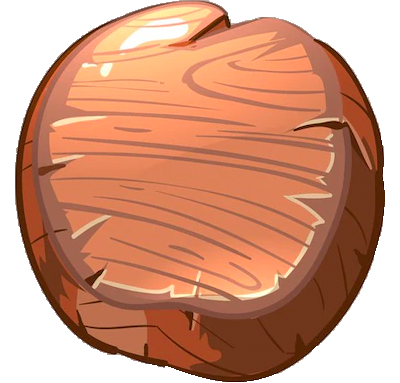
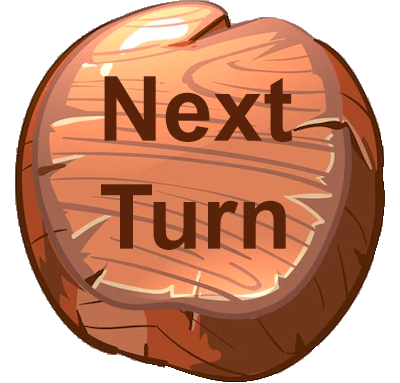
Fixing the turn label.

Changed region(s): [[0.24, 0.201, 0.75, 0.3734], [0.24, 0.4595, 0.72, 0.6606]]

diff --git a/Astral One Engine/Engine/Views/HUD/NextTurnButton.swift b/Astral One Engine/Engine/Views/HUD/NextTurnButton.swift
@@ -6,10 +6,13 @@ internal class NextTurnButton: SKNode {
     private let game: Game
     private let buttonNode: SKSpriteNode
     private let selectedIndicator: SKSpriteNode
-    public let size: CGSize
     private var cancellable = Set<AnyCancellable>()
+    private let uiScaleFactor = 0.18
+    private let minButtonSize = 40.0
+    private let maxButtonSize = 125.0
+    public let size: CGSize
     
-    internal init(game: Game, screenSize: CGSize) {
+    internal init(game: Game) {
         self.game = game
         
         let texture = SKTexture(imageNamed: "next-turn-button")
@@ -18,14 +21,19 @@ internal class NextTurnButton: SKNode {
                                   size: texture.size())
         buttonNode.position = CGPoint.zero
         
-        let tempSize = screenSize.width / 10
-        if tempSize < 40.0 {
-            size = CGSize(width: 40.0, height: 40.0)
+        var size = CGSize(width: game.canvasSize.height * uiScaleFactor,
+                          height: game.canvasSize.height * uiScaleFactor)
+        
+        if size.width < minButtonSize {
+            size = CGSize(width: minButtonSize, height: minButtonSize)
         }
-        else {
-            size = CGSize(width: tempSize, height: tempSize)
+        else if size.width > maxButtonSize {
+            size = CGSize(width: maxButtonSize, height: maxButtonSize)
         }
-        buttonNode.size = CGSize(width: size.width, height: size.height)
+
+        buttonNode.size = size
+        self.size = size
+        
         print("Next turn button size is \(buttonNode.size)")
         
         let selectedTexture = SKTexture(imageNamed: "next-turn-button")
@@ -38,10 +46,7 @@ internal class NextTurnButton: SKNode {
         
         super.init()
         
-        if let parent = self.parent {
-            let size = parent.frame.size
-            print("Camera size: \(size)")
-        }
+        name = "Next Turn"
         
         isUserInteractionEnabled = true
 //        position = mapManager.getCenterOf(position: unit.position)

diff --git a/Astral One Engine/Engine/Views/HUD/Camera.swift b/Astral One Engine/Engine/Views/HUD/Camera.swift
@@ -12,16 +12,19 @@ public class Camera: SKCameraNode {
     let calculatePathIcon = SKSpriteNode(imageNamed: "square-wooden-button")
     let positionLabel = SKLabelNode(fontNamed: "Arial Bold")
     
-    //private let horizontalPadding: CGFloat
-    //private let verticalPadding: CGFloat
+    private let padding: CGFloat
     
-    public init(game: Game, size: CGSize) {
+    public init(game: Game) {
         self.game = game
         
+        padding = game.canvasSize.width * 0.015
         
-        nextTurnButton = NextTurnButton(game: game, screenSize: size)
-        nextTurnButton.position = CGPoint(x: (size.width / 2) - nextTurnButton.size.width / 2,
-                                          y: -(size.height / 2) + nextTurnButton.size.height / 2)
+        nextTurnButton = NextTurnButton(game: game)
+        nextTurnButton.position = CGPoint.zero
+        print(game.canvasSize)
+        nextTurnButton.position = CGPoint(x: (game.canvasSize.width / 2) - nextTurnButton.size.width / 2 - padding,
+                                          y: -(game.canvasSize.height / 2) + nextTurnButton.size.height / 2 + padding)
+        print(nextTurnButton.position)
 //        nextTurnButton.size = CGSize(width: 100.0, height: 100.0)
         startPositionIcon.size = CGSize(width: 40.0, height: 35.0)
         calculatePathIcon.size = CGSize(width: 40.0, height: 35.0)
@@ -40,8 +43,6 @@ public class Camera: SKCameraNode {
         super.init()
         
         name = "camera"
-        
-        print("\(size)")
         
         game.$selectedMapPosition
             .dropFirst()

diff --git a/Astral One Engine/Engine/Views/HUD/TurnView.swift b/Astral One Engine/Engine/Views/HUD/TurnView.swift
@@ -1,0 +1,47 @@
+import Foundation
+import SpriteKit
+import Combine
+
+public class TurnView: SKNode {
+    public let yearNode: SKLabelNode
+    private let game: Game
+    
+    private var cancellable = Set<AnyCancellable>()
+
+    public init(parent: SKNode, game: Game) {
+        self.game = game
+        
+        yearNode = SKLabelNode(fontNamed: "Arial Bold")
+        yearNode.fontSize = 20
+        yearNode.horizontalAlignmentMode = .right
+        yearNode.zPosition = Layer.hud
+//        yearNode.position = CGPoint(x: game.canvasSize.width / 2 - 100.0,
+//                                    y: game.canvasSize.height / 2 - 50)
+        super.init()
+
+        addChild(yearNode)
+        parent.addChild(self)
+        
+        
+        self.position = CGPoint(x: game.canvasSize.width / 2 - 100.0,
+                                y: game.canvasSize.height / 2 - 50)
+        
+        print("Turn: \(self.position)")
+
+        
+        
+        self.game.$turnIndex
+            .sink(receiveValue: { turnIndex in
+                self.render(turn: game.turns[turnIndex])
+            })
+            .store(in: &cancellable)
+    }
+    
+    required init?(coder aDecoder: NSCoder) {
+        fatalError("init(coder:) has not been implemented")
+    }
+    
+    private func render(turn: Turn) {
+        yearNode.text = "Turn \(turn.ordinal): \(turn.displayText)"
+    }
+}

diff --git a/Astral One Engine/Engine/Core/EventBus.swift b/Astral One Engine/Engine/Core/EventBus.swift
@@ -26,16 +26,17 @@ public class EventBus {
             p.map.revealAllTiles()
         }
         
-//        let touchedNodes = scene.nodes(at: location)
-//
-//        for node in touchedNodes {
-//            if let name = node.name {
-//                print("Touched \(name)")
-//            }
-//            else {
-//                print("Touched unnamed node")
-//            }
-//        }
+        let touchedNodes = scene.nodes(at: location)
+
+        for node in touchedNodes {
+            if let name = node.name {
+                if name == "Next Turn" {
+                    game.nextTurn()
+                    return
+                }
+            }
+        }
+        
         let tile = mapManager.getTile(at: location)
 
         if let unit = mapManager.getUnit(on: tile) {

diff --git a/Pathfinder/Stone to Space/StoneToSpaceScene.swift b/Pathfinder/Stone to Space/StoneToSpaceScene.swift
@@ -120,7 +120,8 @@ class StoneToSpaceScene: SKScene {
     }
     
     override func didMove(to view: SKView) {
-        gameCamera = Camera(game: game, size: size)
+        game.canvasSize = frame.size
+        gameCamera = Camera(game: game)
 
         camera = gameCamera
         addChild(gameCamera)

diff --git a/Astral One Engine/Engine/Core/Game.swift b/Astral One Engine/Engine/Core/Game.swift
@@ -37,7 +37,8 @@ public class Game: ObservableObject {
     public let theme: Theme
     public var commands: [Command] = []
     public let db: Db
-
+    public var canvasSize = CGSize.zero
+    
     public init(theme: Theme, map: Map, db: Db) {
         self.theme = theme
         self.map = map
